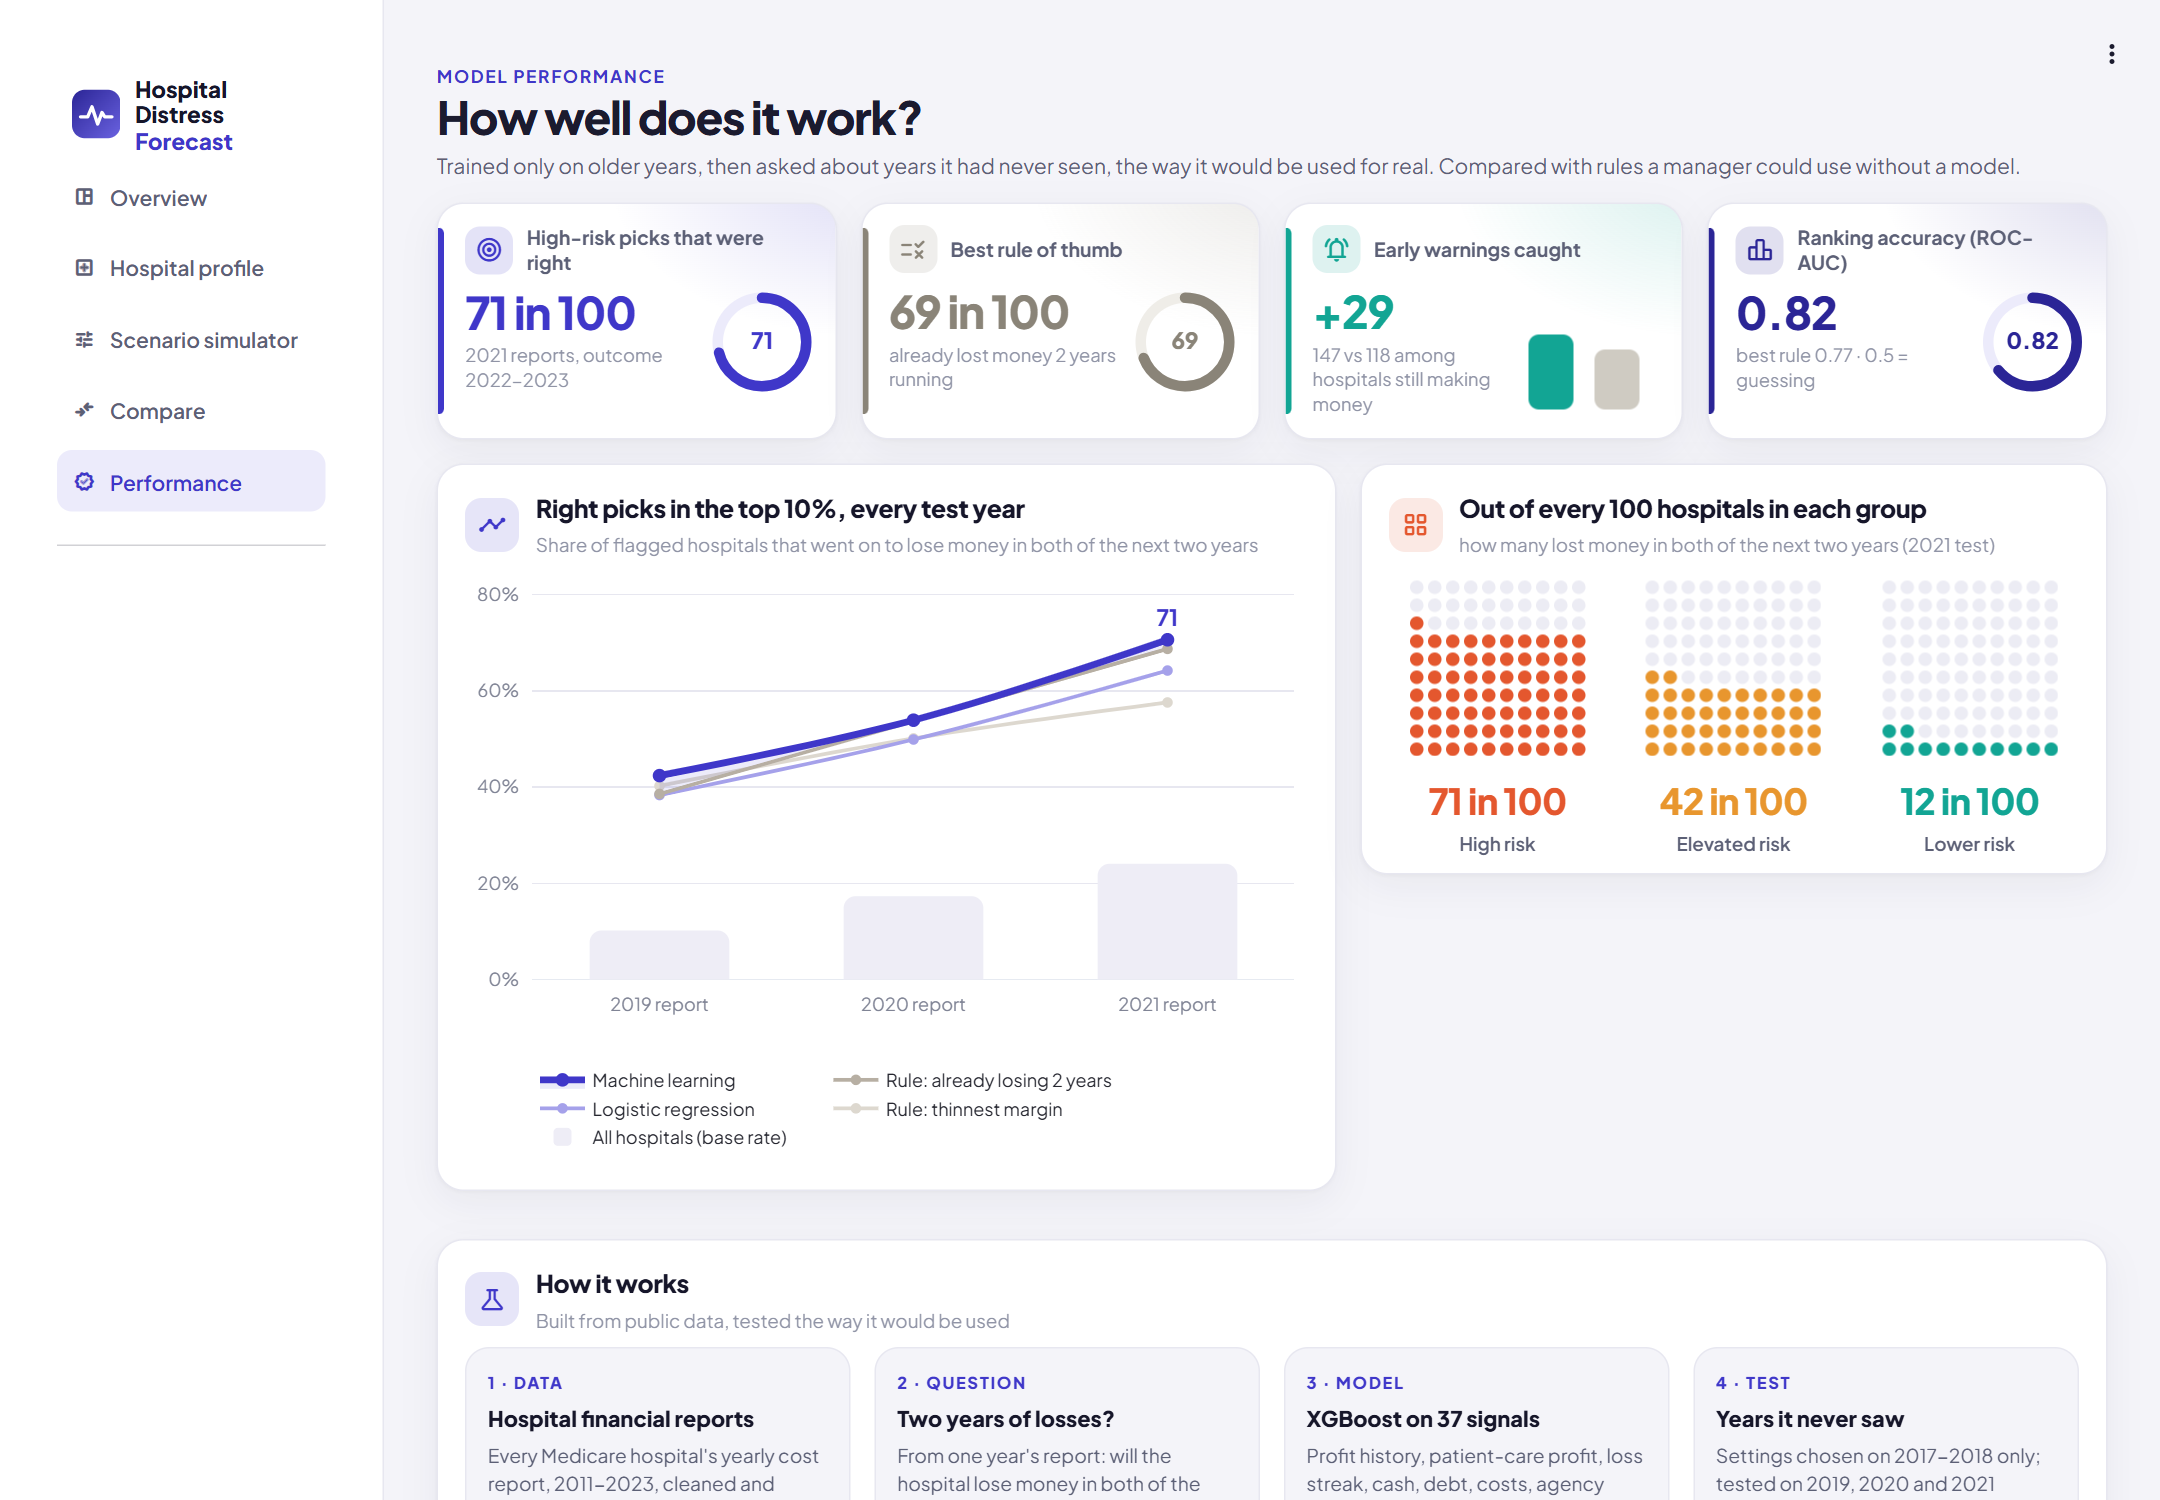
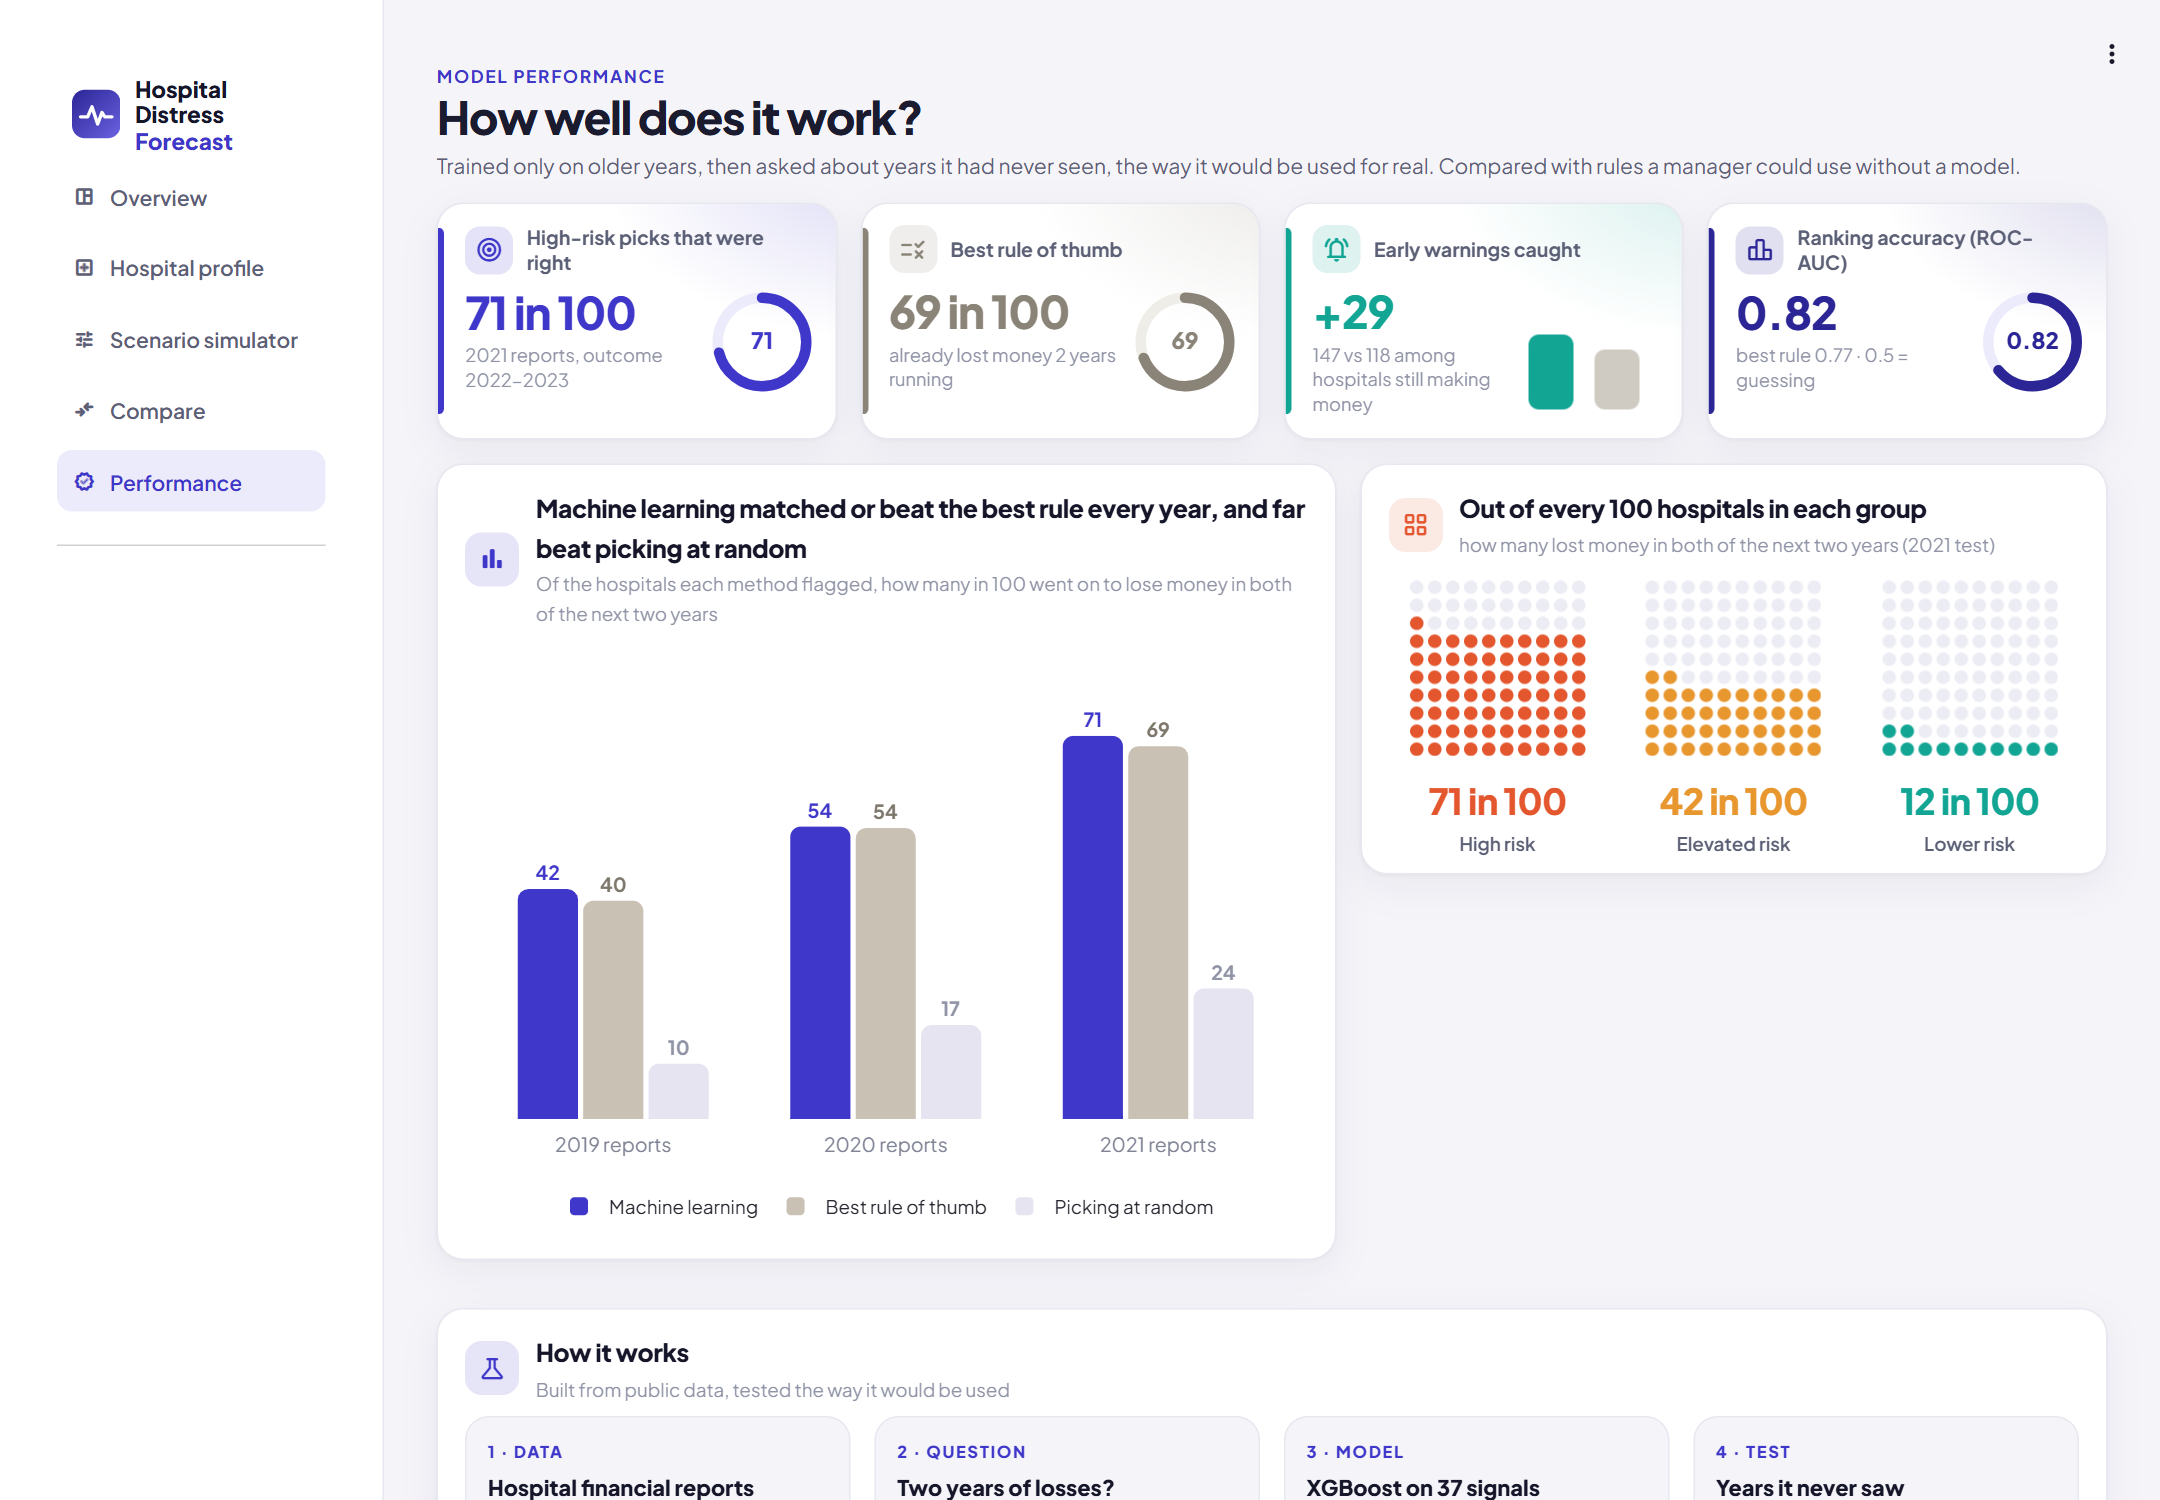
Performance: grouped bars (model, best rule, random) instead of the multi-line chart

diff --git a/app/app.py b/app/app.py
@@ -981,28 +981,24 @@ def performance():
     st.write("")
     left, right = st.columns([1.2, 1])
     with left, card("perf_years"):
-        section("timeline", "Right picks in the top 10%, every test year",
-                "Share of flagged hospitals that went on to lose money in both of the next two years")
-        names = {"Rule: lowest profit margin first": ("Rule: thinnest margin", "#DDD8CF", 2.5),
-                 "Logistic regression": ("Logistic regression", INDIGO_L, 2.5),
-                 "Rule: lost money 2+ years in a row": ("Rule: already losing 2 years", "#B7AFA3", 2.5),
-                 "XGBoost": ("Machine learning", INDIGO, 4.5)}
+        section("bar_chart", "Machine learning matched or beat the best rule every year, and far beat picking at random",
+                "Of the hospitals each method flagged, how many in 100 went on to lose money in both of the next two years")
+        yrs = sorted(b.test_year.unique())
+        xs = [f"{y} reports" for y in yrs]
+        ml = [100 * b[(b.model == "XGBoost") & (b.test_year == y)].precision_top.iloc[0] for y in yrs]
+        rules = b[b.model.str.startswith("Rule")]
+        best = [100 * rules[rules.test_year == y].precision_top.max() for y in yrs]
+        rnd = [100 * b[(b.model == "XGBoost") & (b.test_year == y)].base_rate.iloc[0] for y in yrs]
         fig = go.Figure()
-        base = b[b.model == "XGBoost"].sort_values("test_year")
-        xs = base.test_year.astype(str) + " report"
-        fig.add_bar(x=xs, y=100 * base.base_rate, name="All hospitals (base rate)", marker=dict(color="#EEEDF6", cornerradius=8),
-                    hovertemplate="base rate %{y:.0f} in 100<extra></extra>")
-        for mname, (lab, colr, w) in names.items():
-            s = b[b.model == mname].sort_values("test_year")
-            fig.add_scatter(x=xs, y=100 * s.precision_top, name=lab, mode="lines+markers",
-                            line=dict(color=colr, width=w, shape="spline"), marker=dict(size=9 if mname == "XGBoost" else 7),
-                            fill="tonexty" if mname == "XGBoost" else None, fillcolor="rgba(63,55,201,.10)",
-                            hovertemplate=lab + ": %{y:.0f} in 100<extra></extra>")
-        last = b[b.model == "XGBoost"].sort_values("test_year").iloc[-1]
-        fig.add_annotation(x=xs.iloc[-1], y=100 * last.precision_top, text=f"<b>{100 * last.precision_top:.0f}</b>",
-                           showarrow=False, yshift=16, font=dict(color=INDIGO, size=15))
-        fig.update_yaxes(ticksuffix="%", gridcolor=LINE, range=[0, 82])
-        fig.update_layout(legend=dict(orientation="h", y=-0.2), bargap=0.45)
+        for name, vals, colr, tc in [("Machine learning", ml, INDIGO, INDIGO), ("Best rule of thumb", best, "#C9C1B4", "#7D766B"),
+                                     ("Picking at random", rnd, "#E6E4F0", INK_3)]:
+            fig.add_bar(x=xs, y=vals, name=name, marker=dict(color=colr, cornerradius=7),
+                        text=[f"<b>{v:.0f}</b>" for v in vals], textposition="outside", textfont=dict(size=13, color=tc),
+                        hovertemplate=name + ": %{y:.0f} in 100<extra></extra>")
+        fig.update_yaxes(visible=False, range=[0, 86])
+        fig.update_xaxes(tickfont=dict(size=13))
+        fig.update_layout(barmode="group", bargap=0.28, bargroupgap=0.08,
+                          legend=dict(orientation="h", y=-0.14, x=0.5, xanchor="center", font=dict(size=12.5)))
         plot(styled(fig, 400, legend=True))
     with right, card("perf_levels"):
         section("grid_view", "Out of every 100 hospitals in each group",
